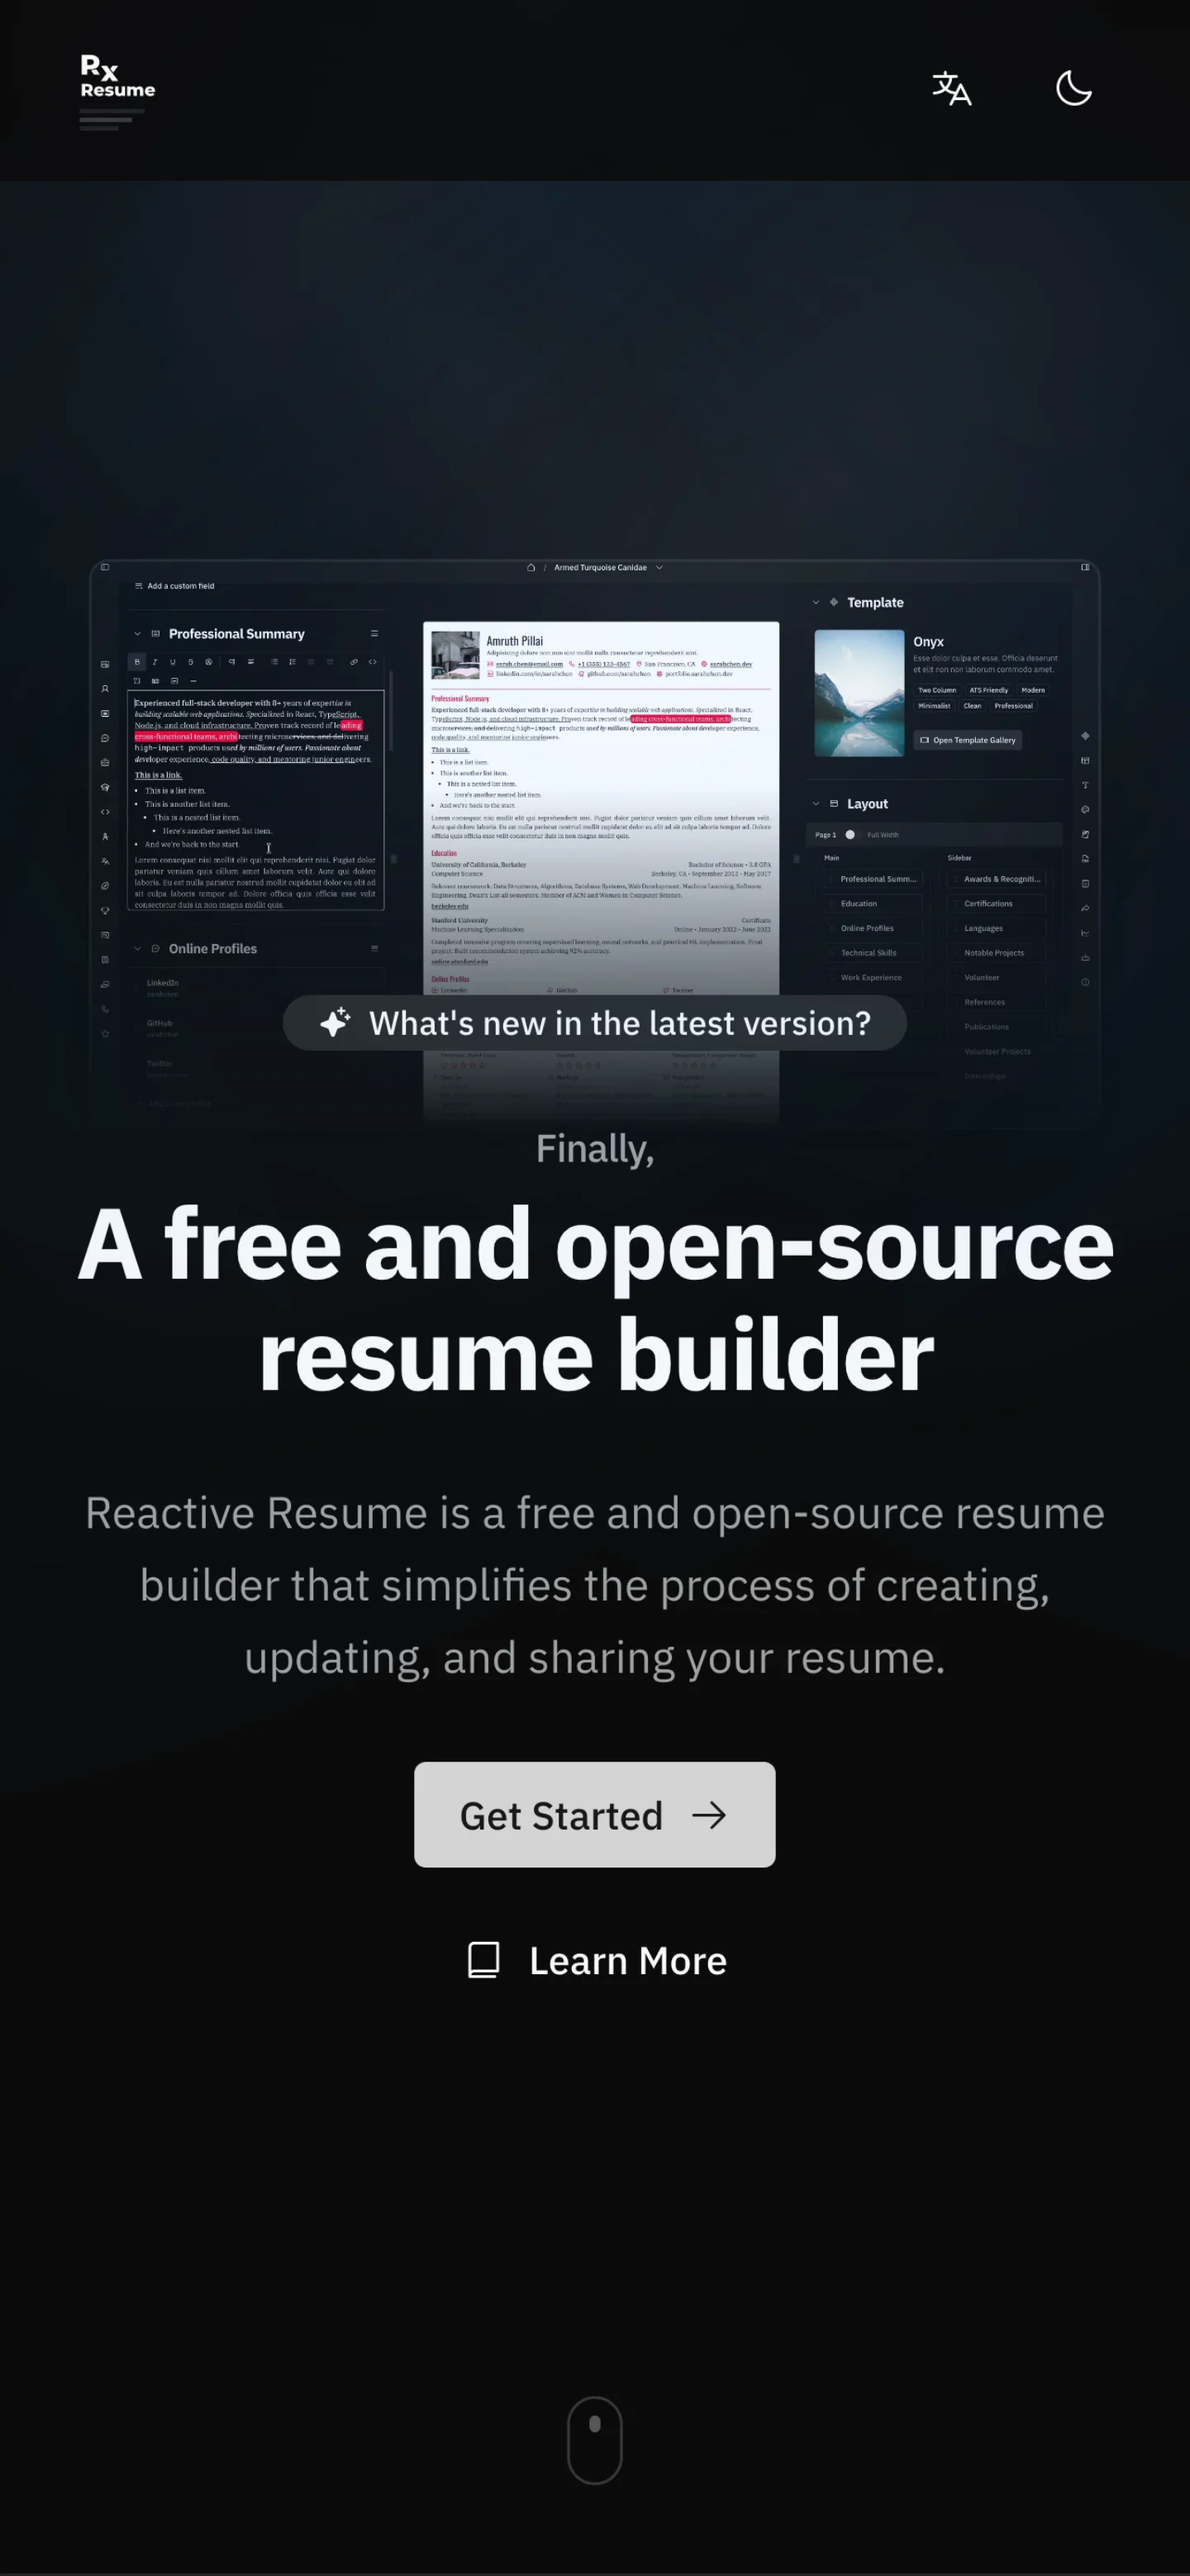
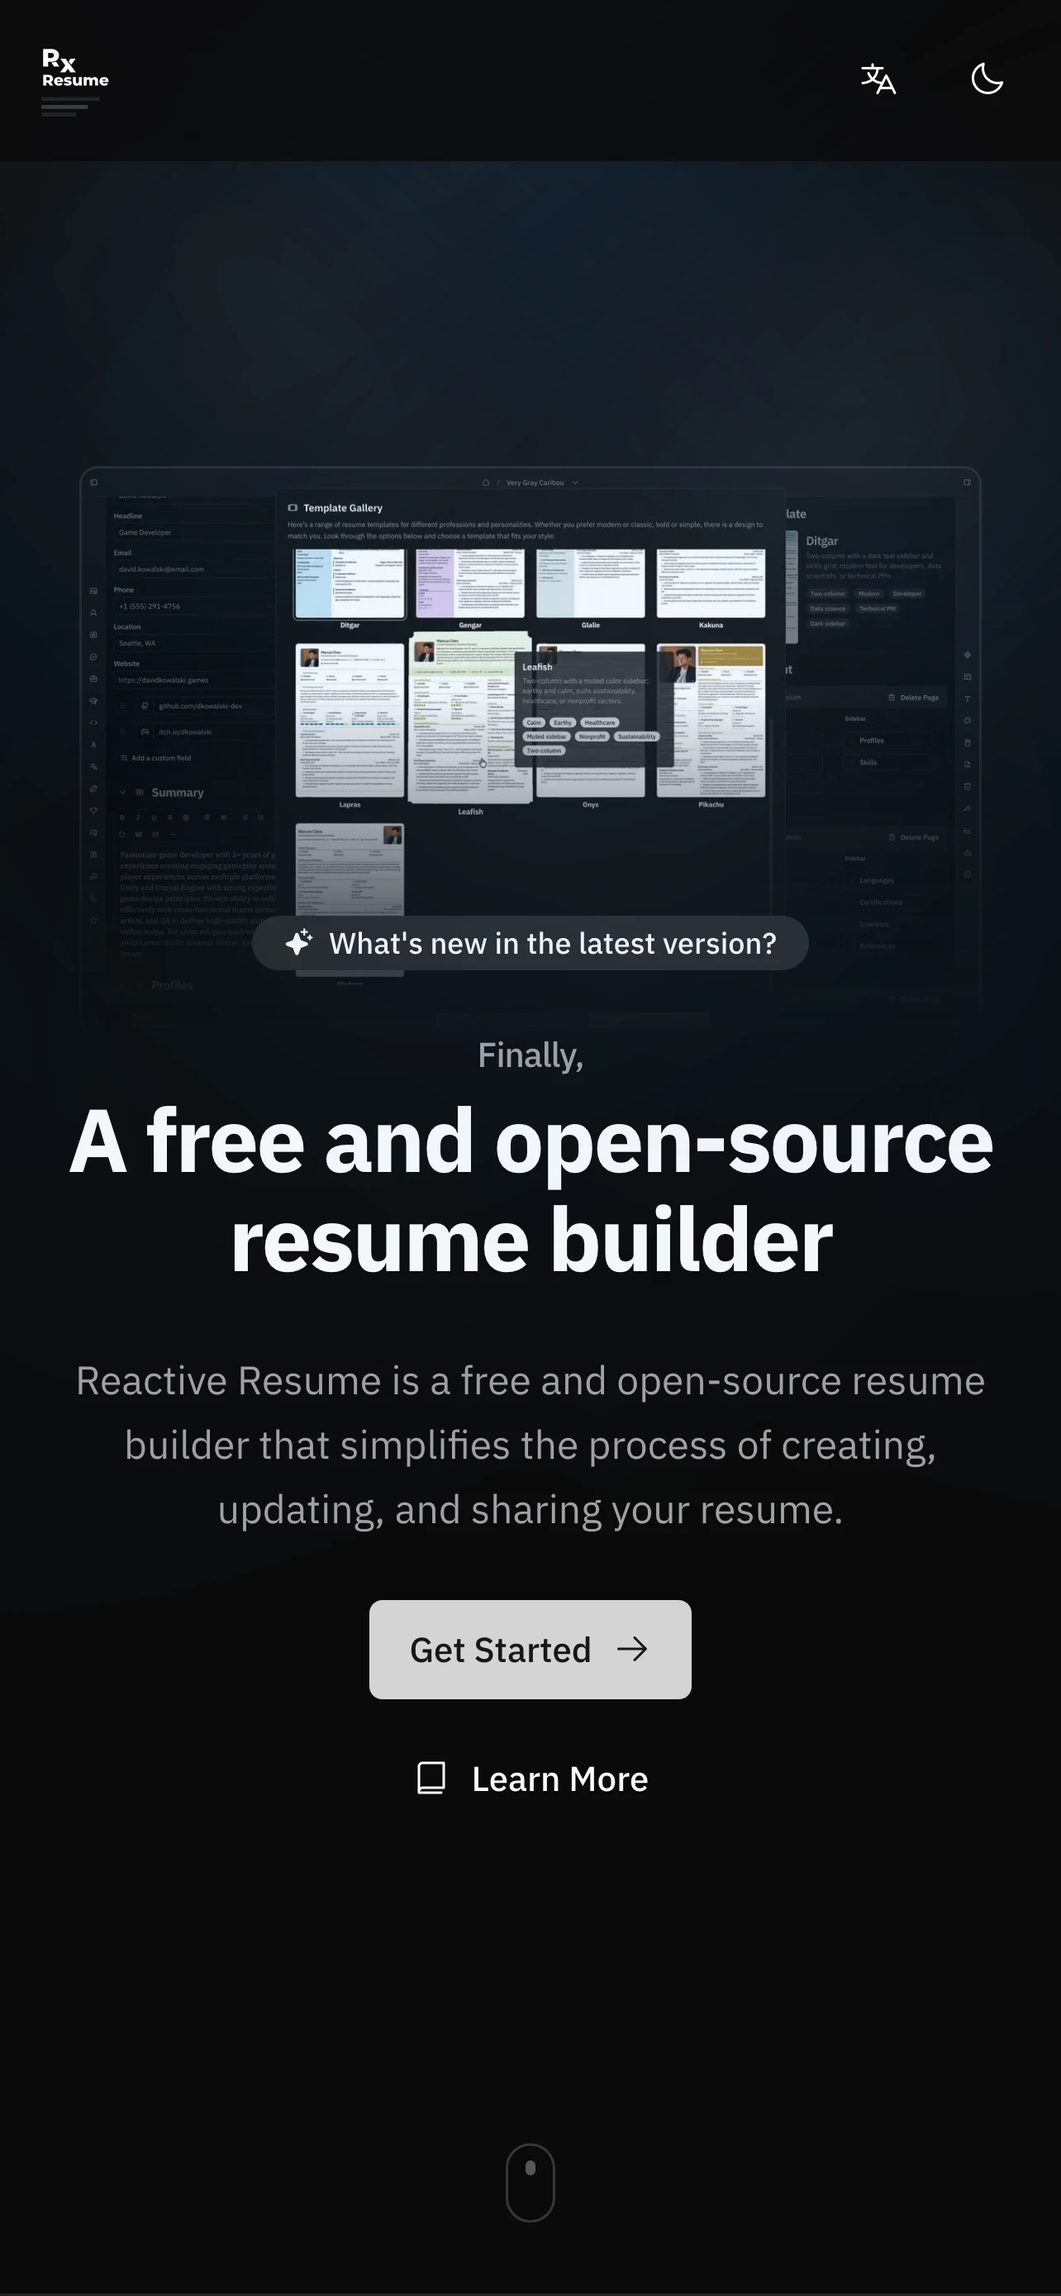
remove dead code, update screenshots, add PWA support

diff --git a/vite.config.ts b/vite.config.ts
@@ -70,16 +70,19 @@ const config = defineConfig({
 		tailwindcss(),
 		nitro({ plugins: ["plugins/1.migrate.ts"] }),
 		tanstackStart({ router: { semicolons: true, quoteStyle: "double" } }),
-		viteReact({ babel: { plugins: [["@lingui/babel-plugin-lingui-macro"]] } }),
+		viteReact({ babel: { plugins: ["@lingui/babel-plugin-lingui-macro"] } }),
 		VitePWA({
 			outDir: "public",
-			registerType: "autoUpdate",
+			useCredentials: true,
+			injectRegister: false,
 			includeAssets: ["**/*"],
+			registerType: "autoUpdate",
 			workbox: {
-				globPatterns: ["**/*"],
+				skipWaiting: true,
 				clientsClaim: true,
-				cleanupOutdatedCaches: true,
+				globPatterns: ["**/*"],
 				maximumFileSizeToCacheInBytes: 10 * 1024 * 1024, // 10mb
+				navigateFallback: null, // Disable navigation fallback for SSR
 			},
 			manifest: {
 				name: "Reactive Resume",
@@ -94,7 +97,7 @@ const config = defineConfig({
 				icons: [
 					{
 						src: "favicon.ico",
-						sizes: "48x48",
+						sizes: "128x128",
 						type: "image/x-icon",
 					},
 					{
@@ -123,59 +126,59 @@ const config = defineConfig({
 				screenshots: [
 					{
 						src: "screenshots/web/1-landing-page.webp",
-						sizes: "any",
+						sizes: "1920x1080 any",
 						type: "image/webp",
 						form_factor: "wide",
 						label: "Landing Page",
 					},
 					{
-						src: "screenshots/web/2-resumes-dashboard.webp",
-						sizes: "any",
+						src: "screenshots/web/2-resume-dashboard.webp",
+						sizes: "1920x1080 any",
 						type: "image/webp",
 						form_factor: "wide",
-						label: "Resumes Dashboard",
+						label: "Resume Dashboard",
 					},
 					{
-						src: "screenshots/web/3-builder-page.webp",
-						sizes: "any",
+						src: "screenshots/web/3-builder-screen.webp",
+						sizes: "1920x1080 any",
 						type: "image/webp",
 						form_factor: "wide",
-						label: "Builder Page",
+						label: "Builder Screen",
 					},
 					{
-						src: "screenshots/web/4-template-selector.webp",
-						sizes: "any",
+						src: "screenshots/web/4-template-gallery.webp",
+						sizes: "1920x1080 any",
 						type: "image/webp",
 						form_factor: "wide",
-						label: "Template Selector",
+						label: "Template Gallery",
 					},
 					{
 						src: "screenshots/mobile/1-landing-page.webp",
-						sizes: "any",
+						sizes: "1284x2778 any",
 						type: "image/webp",
 						form_factor: "narrow",
 						label: "Landing Page",
 					},
 					{
-						src: "screenshots/mobile/2-resumes-dashboard.webp",
-						sizes: "any",
+						src: "screenshots/mobile/2-resume-dashboard.webp",
+						sizes: "1284x2778 any",
 						type: "image/webp",
 						form_factor: "narrow",
-						label: "Resumes Dashboard",
+						label: "Resume Dashboard",
 					},
 					{
-						src: "screenshots/mobile/3-builder-page.webp",
-						sizes: "any",
+						src: "screenshots/mobile/3-builder-screen.webp",
+						sizes: "1284x2778 any",
 						type: "image/webp",
 						form_factor: "narrow",
-						label: "Builder Page",
+						label: "Builder Screen",
 					},
 					{
-						src: "screenshots/mobile/4-template-selector.webp",
-						sizes: "any",
+						src: "screenshots/mobile/4-template-gallery.webp",
+						sizes: "1284x2778 any",
 						type: "image/webp",
 						form_factor: "narrow",
-						label: "Template Selector",
+						label: "Template Gallery",
 					},
 				],
 				categories: [

diff --git a/src/routes/__root.tsx b/src/routes/__root.tsx
@@ -48,9 +48,11 @@ export const Route = createRootRouteWithContext<RouterContext>()({
 			links: [
 				{ rel: "stylesheet", href: appCss },
 				// Icons
-				{ rel: "icon", href: "/favicon.svg", type: "image/svg+xml", sizes: "any" },
-				{ rel: "icon", href: "/favicon.ico", type: "image/x-icon", sizes: "48x48" },
-				{ rel: "apple-touch-icon", href: "/apple-touch-icon-180x180.png", type: "image/png", sizes: "180x180" },
+				{ rel: "icon", href: "/favicon.ico", type: "image/x-icon", sizes: "128x128" },
+				{ rel: "icon", href: "/favicon.svg", type: "image/svg+xml", sizes: "256x256 any" },
+				{ rel: "apple-touch-icon", href: "/apple-touch-icon-180x180.png", type: "image/png", sizes: "180x180 any" },
+				// Manifest
+				{ rel: "manifest", href: "/manifest.webmanifest", crossOrigin: "use-credentials" },
 			],
 			meta: [
 				{ title },
@@ -68,6 +70,18 @@ export const Route = createRootRouteWithContext<RouterContext>()({
 				{ property: "og:title", content: title },
 				{ property: "og:description", content: description },
 				{ property: "og:url", content: appUrl },
+			],
+			// Register service worker via script tag
+			scripts: [
+				{
+					children: `
+						if('serviceWorker' in navigator) {
+							window.addEventListener('load', () => {
+								navigator.serviceWorker.register('/sw.js', { scope: '/' })
+							})
+						}
+					`,
+				},
 			],
 		};
 	},

diff --git a/src/utils/locale.ts b/src/utils/locale.ts
@@ -1,10 +1,8 @@
 import { i18n, type MessageDescriptor, type Messages } from "@lingui/core";
 import { msg } from "@lingui/core/macro";
-import { useLingui } from "@lingui/react";
 import { createIsomorphicFn, createServerFn } from "@tanstack/react-start";
 import { getCookie, setCookie } from "@tanstack/react-start/server";
 import Cookies from "js-cookie";
-import { useMemo } from "react";
 import z from "zod";
 
 const localeSchema = z.union([
@@ -144,12 +142,6 @@ const RTL_LANGUAGES = new Set([
 export function isRTL(locale: string): boolean {
 	const language = locale.split("-")[0].toLowerCase();
 	return RTL_LANGUAGES.has(language);
-}
-
-export function useIsRTL() {
-	const { i18n } = useLingui();
-
-	return useMemo(() => isRTL(i18n.locale), [i18n.locale]);
 }
 
 export const getLocale = createIsomorphicFn()

diff --git a/src/routes/$username/$slug.tsx b/src/routes/$username/$slug.tsx
@@ -16,11 +16,18 @@ import { cn } from "@/utils/style";
 export const Route = createFileRoute("/$username/$slug")({
 	component: RouteComponent,
 	loader: async ({ context, params: { username, slug } }) => {
-		const resume = await context.queryClient.ensureQueryData(
-			orpc.resume.getBySlug.queryOptions({ input: { username, slug } }),
-		);
+		try {
+			// Ignore .well-known requests
+			if (username === ".well-known") throw notFound();
 
-		return { resume };
+			const resume = await context.queryClient.ensureQueryData(
+				orpc.resume.getBySlug.queryOptions({ input: { username, slug } }),
+			);
+
+			return { resume };
+		} catch {
+			throw notFound();
+		}
 	},
 	head: ({ loaderData }) => ({
 		meta: [{ title: loaderData ? `${loaderData.resume.name} - Reactive Resume` : "Reactive Resume" }],

diff --git a/src/components/ui/dialog.tsx b/src/components/ui/dialog.tsx
@@ -53,7 +53,7 @@ function DialogContent({ className, children, ...props }: DialogContentProps) {
 			<DialogOverlay />
 			<DialogContentPrimitive
 				className={cn(
-					"fixed top-[50%] left-[50%] z-50 grid w-full max-w-[calc(100%-2rem)] translate-x-[-50%] translate-y-[-50%] gap-4 rounded-lg border bg-background p-6 shadow-lg sm:max-w-2xl",
+					"fixed top-[50%] left-[50%] z-50 grid max-h-[calc(100%-2rem)] w-full max-w-[calc(100%-2rem)] translate-x-[-50%] translate-y-[-50%] gap-4 overflow-y-auto rounded-lg border bg-background p-6 shadow-lg sm:max-w-2xl 2xl:max-w-4xl",
 					className,
 				)}
 				{...props}
